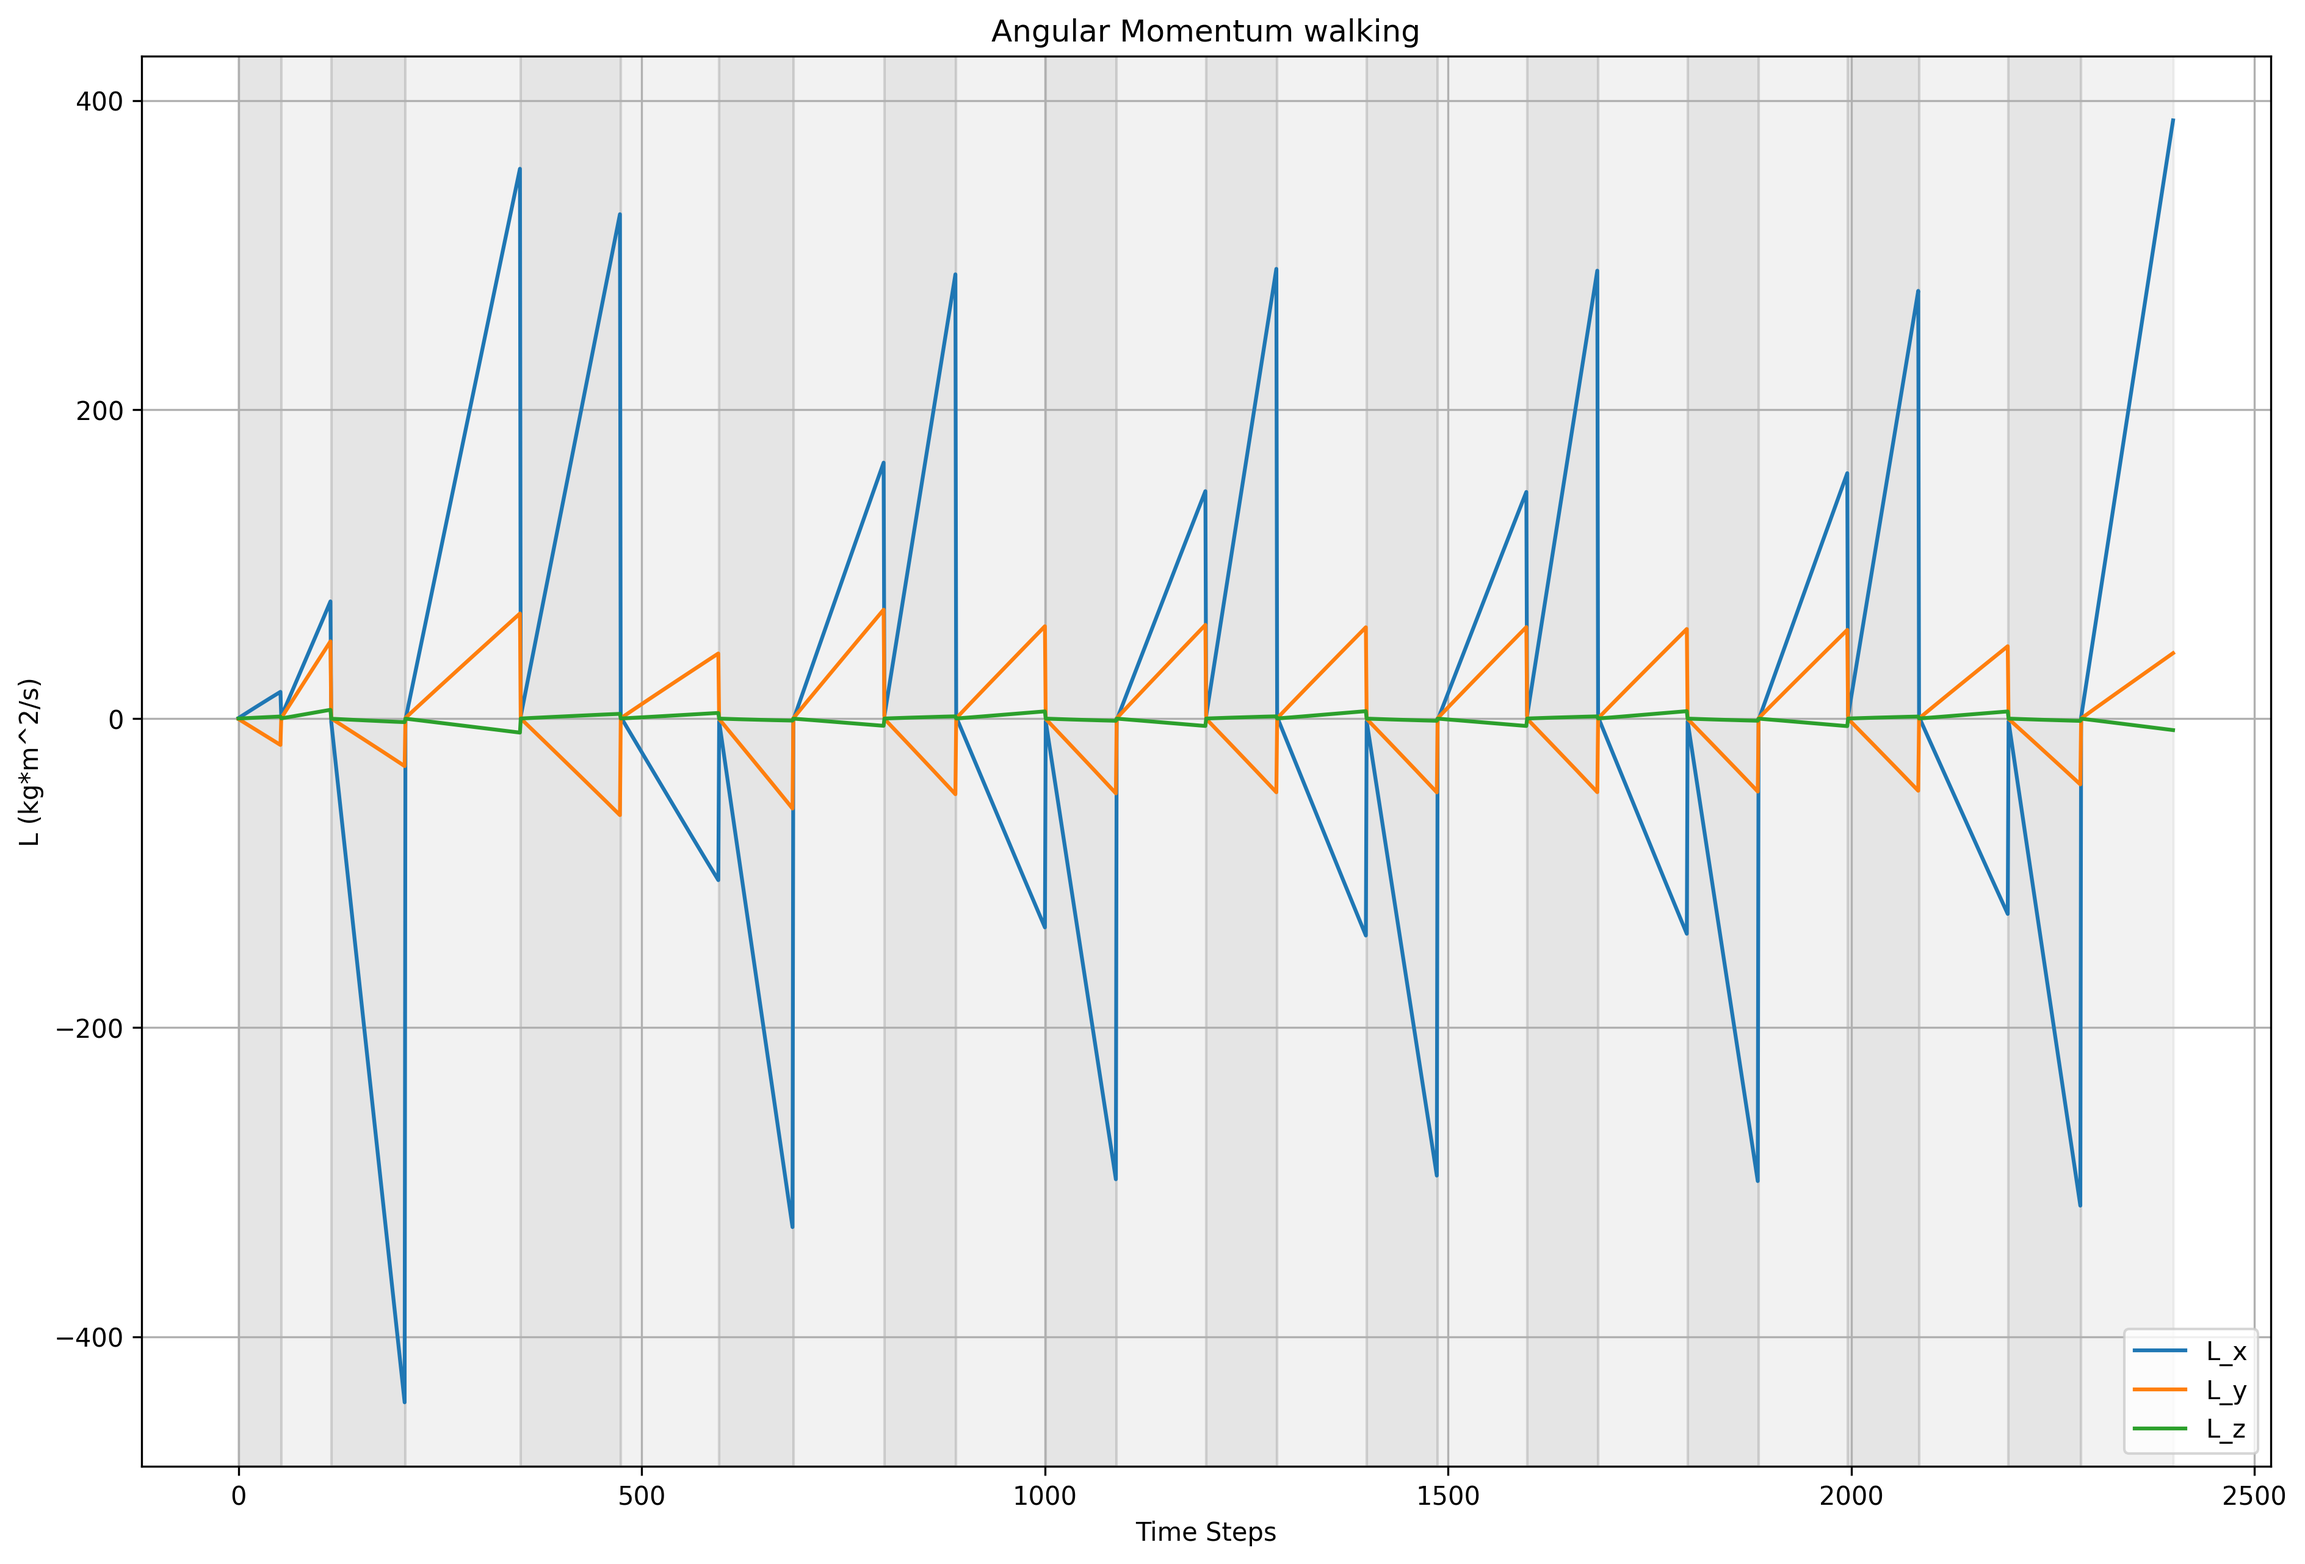
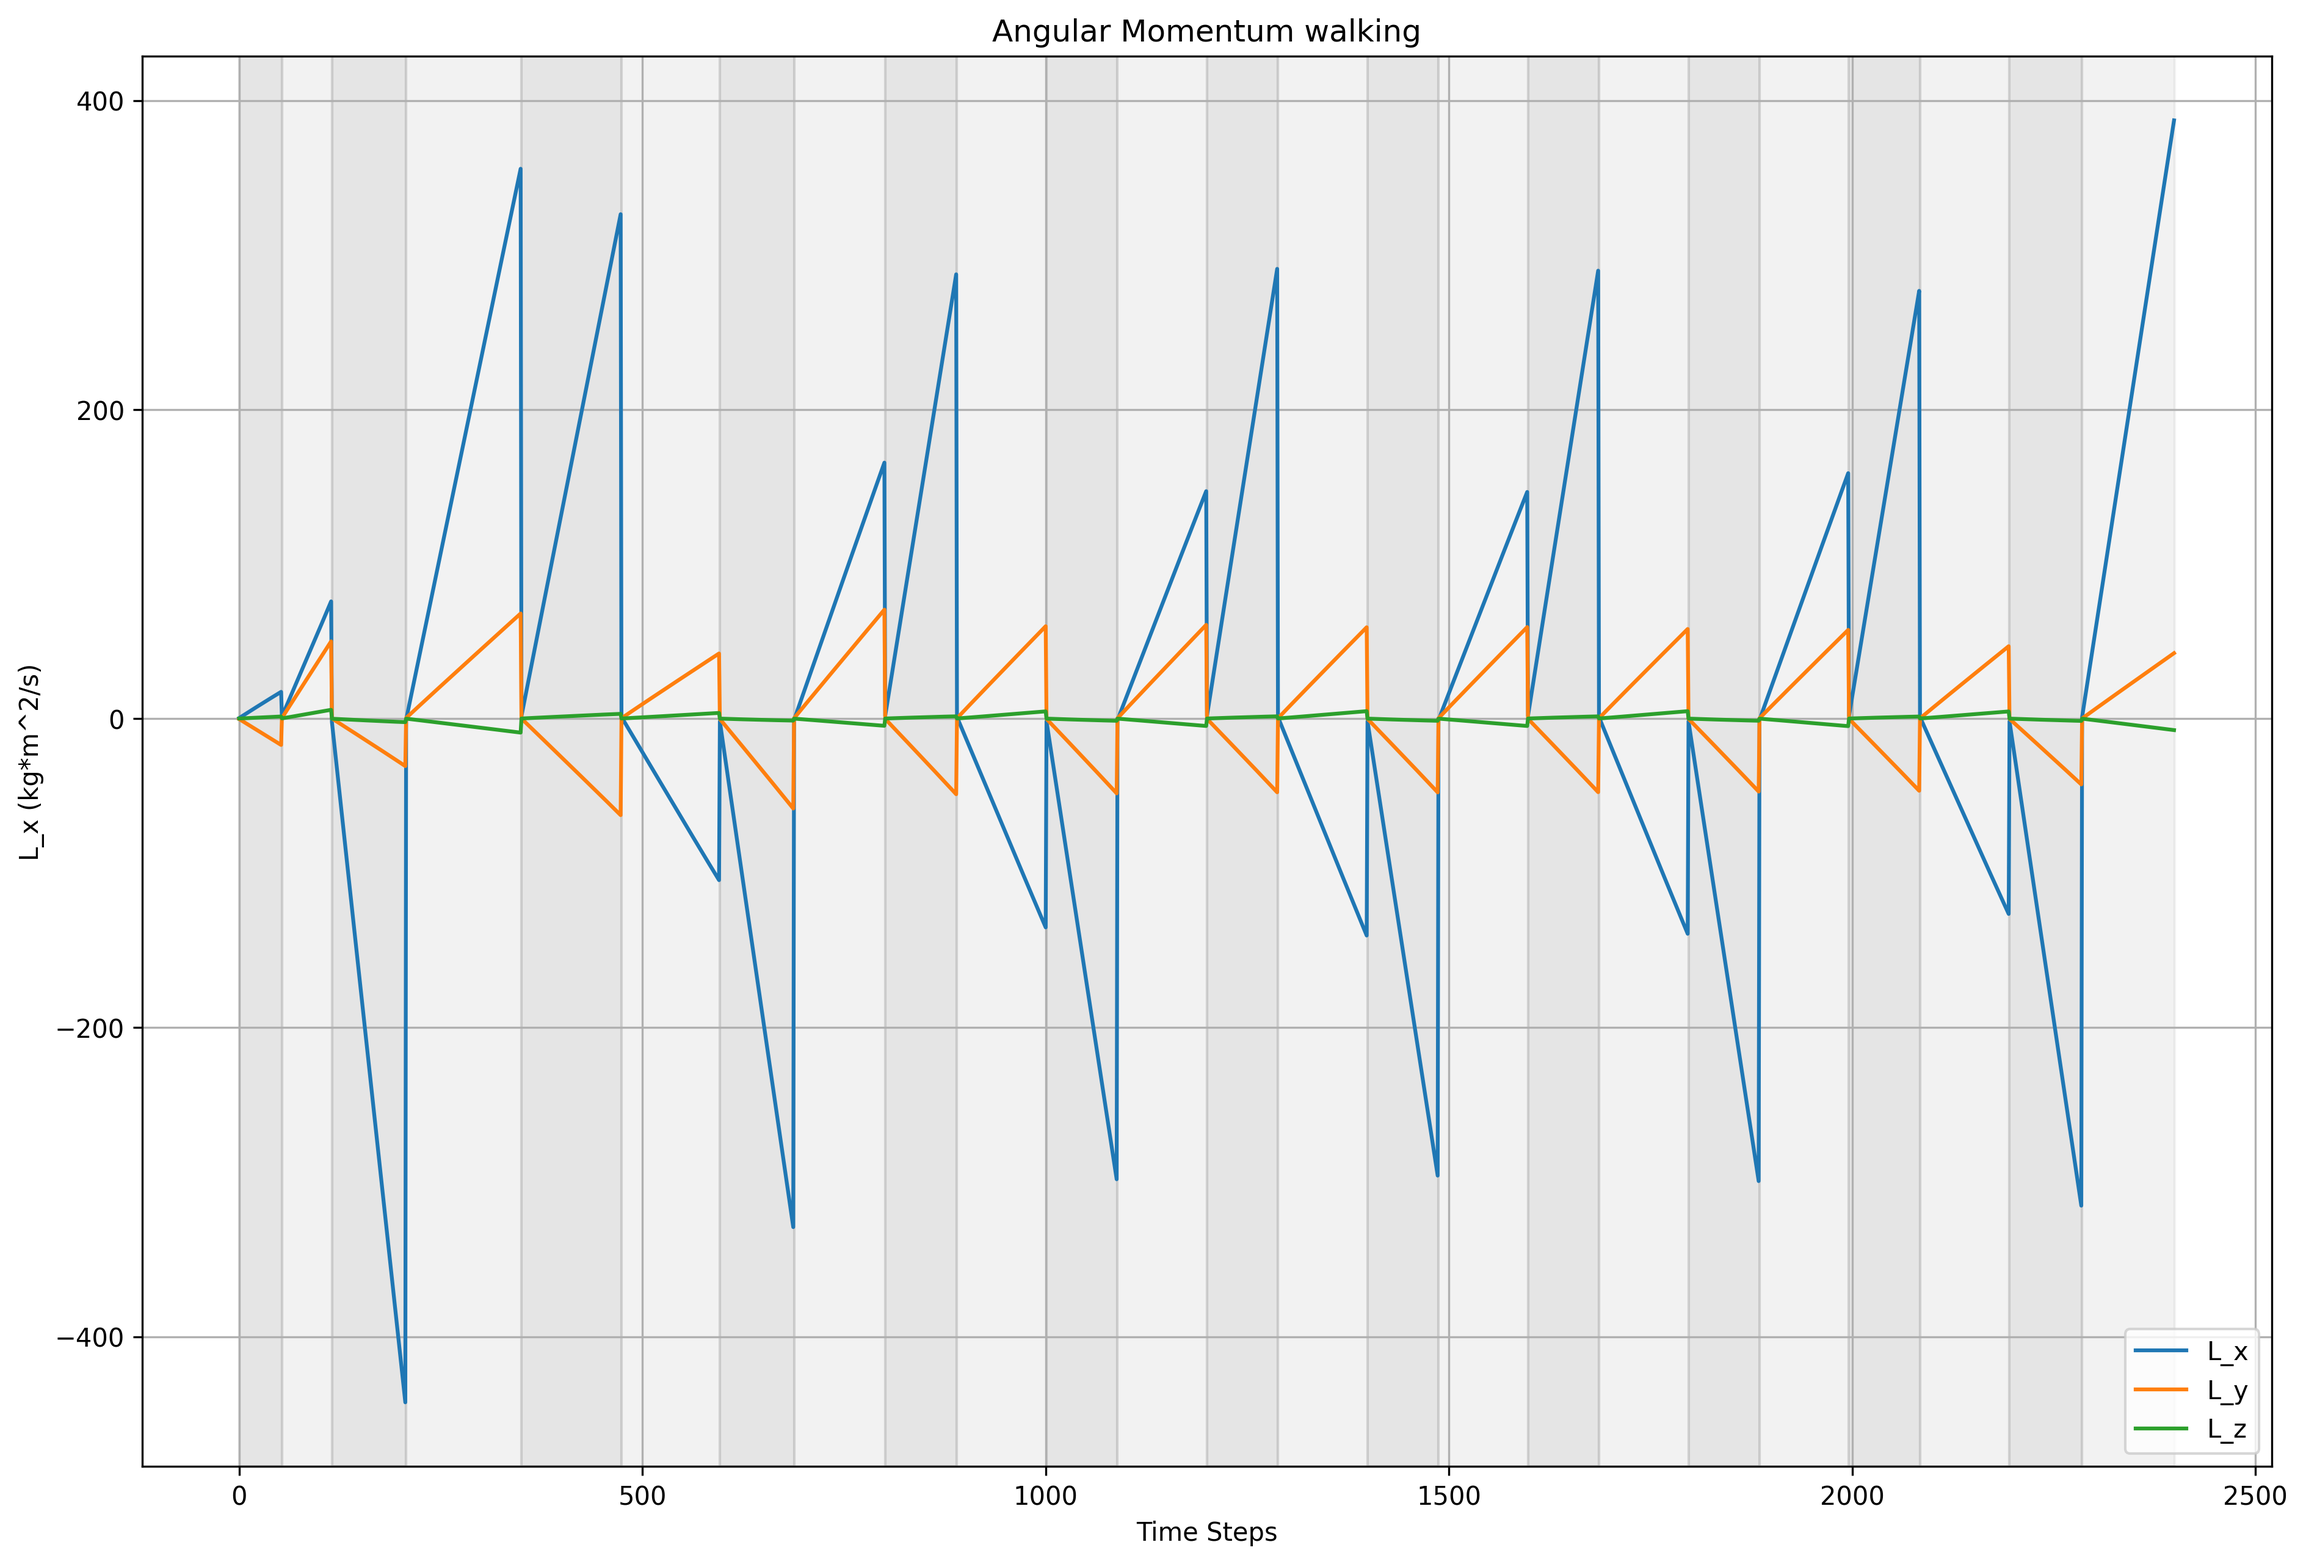
plots

Changed region(s): [[0.0, 0.4372, 0.0312, 0.5308], [0.0312, 0.8431, 0.0625, 0.8743]]

diff --git a/centroidal_dyn-main/graphics.py b/centroidal_dyn-main/graphics.py
@@ -53,9 +53,9 @@ def _plt(phases_duration, components, labels, title):
         "v_x": "v (m/s)",
         "v_y": "v (m/s)",
         "v_z": "v (m/s)",
-        "L_x": "L (kg*m^2/s)",
-        "L_y": "L (kg*m^2/s)",
-        "L_z": "L (kg*m^2/s)",
+        "L_x": "L_x (kg*m^2/s)",
+        "L_y": "L_y (kg*m^2/s)",
+        "L_z": "L_z (kg*m^2/s)",
         "rf_z": "z (m)",
         "lf_z": "z (m)",
     }
@@ -191,7 +191,11 @@ def evolution_contact_forces(X, X_ref, U, U_ref, dm, ref_type, opti):
             if ref_values is not None:
                 axs_left[i, j].plot(time, ref_values[:, j, 1], linestyle="dashed", label=f"Ref {title} ({labels[j]}) - Left Foot", color="orange")
 
-            axs_left[i, j].set_ylabel(f"{title} ({labels[j]})")
+            #set y label (F or ETA and unit)
+            if title == "Translational Forces F":
+                axs_left[i, j].set_ylabel(f"{title} ({labels[j]}) (N)")
+            elif title == "Rotational Forces ETA":
+                axs_left[i, j].set_ylabel(f"{title} ({labels[j]}) (N*m)")
             axs_left[i, j].set_title(f"{title} - {labels[j]} (Left Foot)")
             axs_left[i, j].legend()
             axs_left[i, j].grid()
